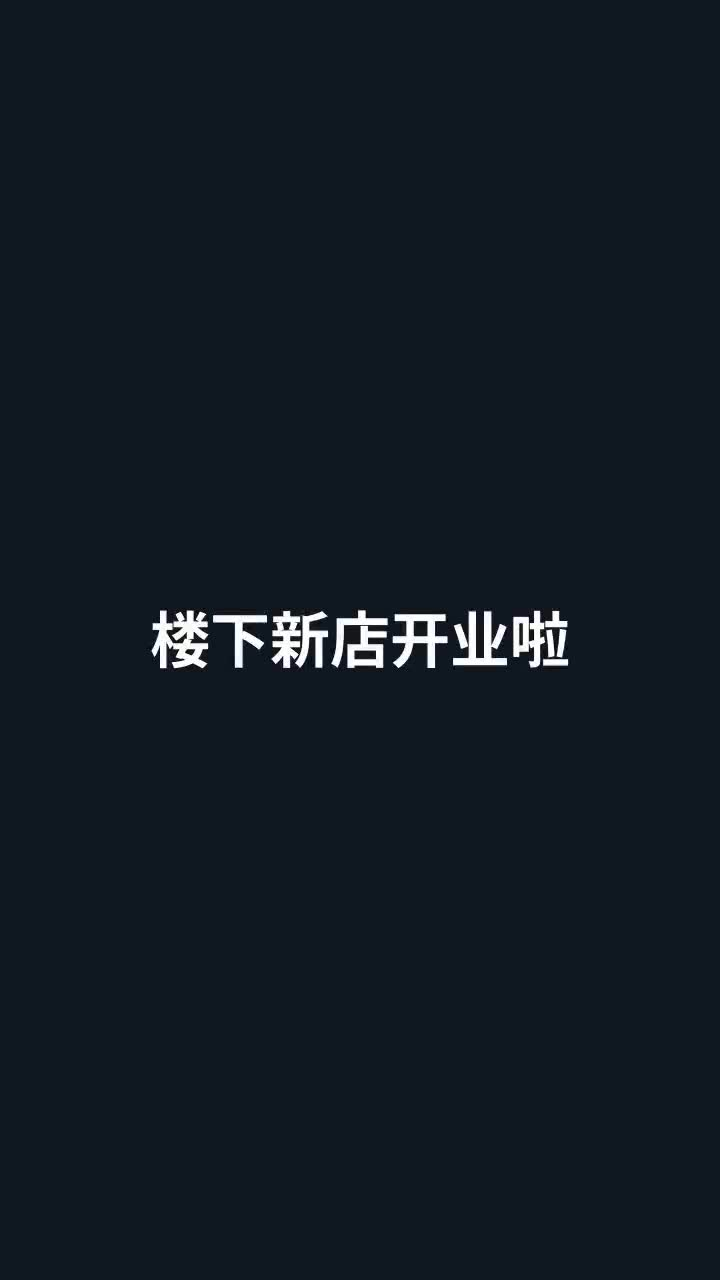
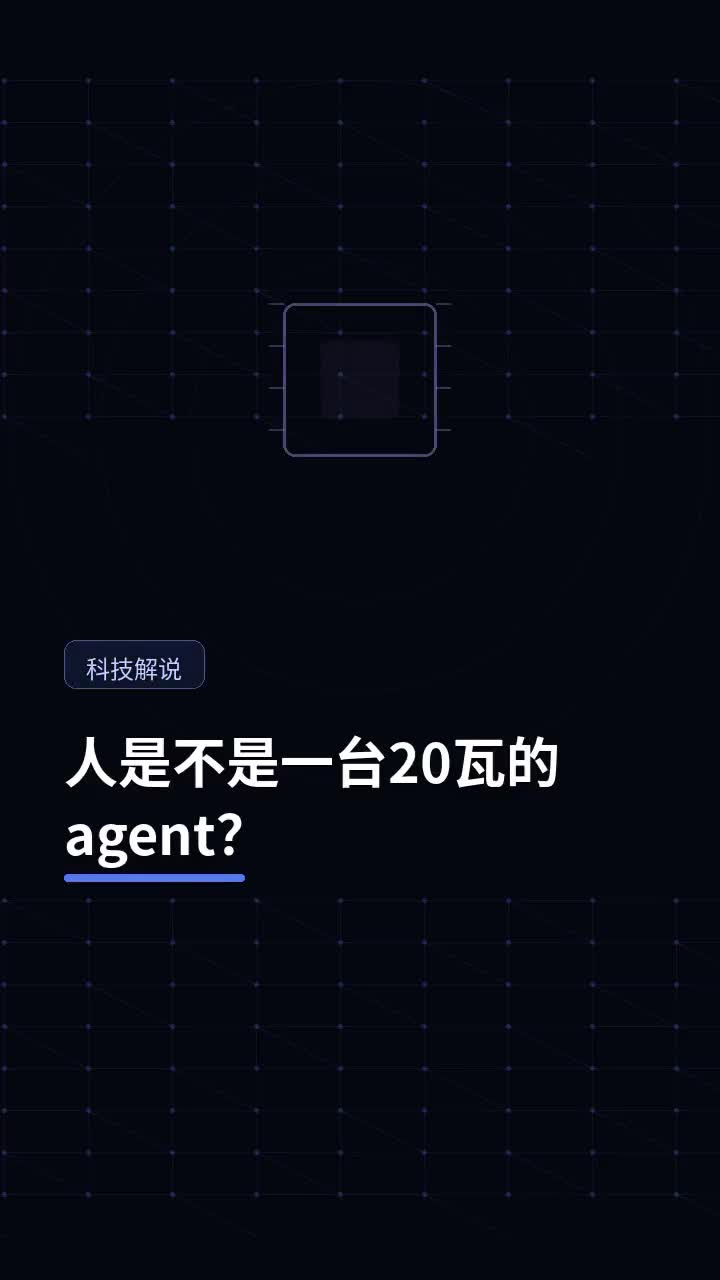
Add designed title card with background art
This is by an automated agent, not a human.

Title card: mesh and concentric background, kicker, fitted headline,
accent rule; hybrid wrapping keeps Latin words whole.

diff --git a/projects/motion-mvp/graph_scene.py b/projects/motion-mvp/graph_scene.py
@@ -74,25 +74,8 @@ def glass_panel(draw, box, alpha=22, brackets=True):
         corner_brackets(draw, (x0, y0, x1, y1), ACCENT2, alpha=170, size=22, width=2)
 
 
-def wrap_text(text, size, max_width, bold=False):
-    f = font(FONT_BOLD if bold else FONT_REG, size)
-    lines, current = [], ''
-    for char in text:
-        candidate = current + char
-        if f.getlength(candidate) > max_width and current:
-            lines.append(current)
-            current = char
-        else:
-            current = candidate
-    if current:
-        lines.append(current)
-    return lines
-
-
-
 
 def fit_font(text, max_w, max_h, start=28, pad=16, bold=True):
-    """Shrink until the text fits the box with a consistent padding."""
     size = start
     while size > 12:
         f = font(FONT_BOLD if bold else FONT_REG, size)
@@ -103,7 +86,6 @@ def fit_font(text, max_w, max_h, start=28, pad=16, bold=True):
 
 
 def label_box(draw, x, y, text, w, h, outline, fill=None, pad=16, start=30, text_color=(255, 255, 255)):
-    """Box with text fitted and optically centered; identical padding everywhere."""
     f, size = fit_font(text, w, h, start=start, pad=pad)
     if fill:
         draw.rounded_rectangle([x, y, x + w, y + h], radius=10, fill=fill,
@@ -114,6 +96,37 @@ def label_box(draw, x, y, text, w, h, outline, fill=None, pad=16, start=30, text
     asc, desc = f.getmetrics()
     th = asc + desc
     draw.text((x + (w - tw) / 2, y + (h - th) / 2 + 2), text, font=f, fill=text_color)
+
+
+def _tokens(text):
+    tokens, buf = [], ''
+    for ch in text:
+        if ch.isascii() and (ch.isalnum() or ch in "-'"):
+            buf += ch
+        else:
+            if buf:
+                tokens.append(buf)
+                buf = ''
+            tokens.append(ch)
+    if buf:
+        tokens.append(buf)
+    return tokens
+
+
+def wrap_text(text, size, max_width, bold=False):
+    """Wrap by CJK character but keep Latin words whole."""
+    f = font(FONT_BOLD if bold else FONT_REG, size)
+    lines, current = [], ''
+    for token in _tokens(text):
+        candidate = current + token
+        if f.getlength(candidate) > max_width and current:
+            lines.append(current)
+            current = token
+        else:
+            current = candidate
+    if current:
+        lines.append(current)
+    return lines
 
 
 def draw_brain(draw, cx, cy, scale, alpha):
@@ -511,3 +524,60 @@ def draw_flow_compact(draw, cx, cy, alpha, t):
                           fill=ACCENT + (int(200 * alpha),), width=3)
             dot_y = ay0 + 4 + (t * 50) % 18
             draw.ellipse([ax - 3, dot_y - 3, ax + 3, dot_y + 3], fill=ACCENT2 + (int(230 * alpha),))
+
+
+def render_title_card(out, title, kicker='概念解说', subtitle='', seconds=3.0, figure='chip'):
+    """Opening card: background art, kicker, fitted title and a rule."""
+    frames_dir = Path(out).with_suffix('')
+    frames_dir.mkdir(parents=True, exist_ok=True)
+    total = int(seconds * FPS)
+    for index in range(total):
+        t = index / FPS
+        appear = ease(t / 0.6)
+        draw_t = t
+        image = Image.new('RGB', (W, H), '#05070f')
+        draw = ImageDraw.Draw(image, 'RGBA')
+        draw.rectangle([0, 0, W, H], fill='#05070f')
+        mesh(draw, 80, 420)
+        mesh(draw, 900, 1200)
+        for radius in (170, 260, 350):
+            draw.ellipse([W / 2 - radius, 430 - radius, W / 2 + radius, 430 + radius],
+                         outline=(90, 130, 255, 14), width=1)
+        drawer = FIGURES.get(figure, draw_chip)
+        if figure in ('triangle', 'bars', 'split', 'tokens', 'gear', 'database'):
+            drawer(draw, W / 2, 380, 240, 0.55 * appear, draw_t)
+        elif figure == 'flow':
+            draw_flow_compact(draw, W / 2, 380, 0.5 * appear, draw_t)
+        else:
+            drawer(draw, W / 2, 380, 240, 0.55 * appear)
+        # kicker
+        kf = font(FONT_REG, 24)
+        kw = kf.getlength(kicker) + 44
+        draw.rounded_rectangle([MARGIN, 640, MARGIN + kw, 688], radius=12,
+                               fill=(90, 130, 255, int(34 * appear)),
+                               outline=(120, 160, 255, int(140 * appear)))
+        draw.text((MARGIN + 22, 650), kicker, font=kf, fill=(190, 205, 255, int(230 * appear)))
+        # title, fitted
+        lines = wrap_text(title, 54, W - MARGIN * 2, bold=True)[:3]
+        y = 720
+        for line in lines:
+            f = font(FONT_BOLD, 54)
+            draw.text((MARGIN, y + 2), line, font=f, fill=(0, 0, 0, 150))
+            draw.text((MARGIN, y), line, font=f, fill=(255, 255, 255, int(246 * appear)))
+            y += 72
+        # rule
+        draw.rounded_rectangle([MARGIN, y + 10, MARGIN + int(180 * appear), y + 17],
+                               radius=3, fill=(90, 130, 255, 235))
+        if subtitle:
+            sf = font(FONT_REG, 28)
+            for line_index, line in enumerate(wrap_text(subtitle, 28, W - MARGIN * 2)[:2]):
+                draw.text((MARGIN, y + 48 + line_index * 40), line, font=sf,
+                          fill=(200, 208, 225, int(210 * appear)))
+        image.save(frames_dir / f'{index:04d}.png')
+    subprocess.run(['ffmpeg', '-y', '-loglevel', 'error', '-framerate', str(FPS),
+                    '-i', str(frames_dir / '%04d.png'), '-c:v', 'libx264', '-preset',
+                    'veryfast', '-crf', '22', '-pix_fmt', 'yuv420p', str(out)], check=True)
+    for path in frames_dir.glob('*.png'):
+        path.unlink()
+    frames_dir.rmdir()
+    return out

diff --git a/projects/motion-mvp/pipeline.py b/projects/motion-mvp/pipeline.py
@@ -266,12 +266,21 @@ def build(brief, name='demo', count=5, theme='promo', style='photo'):
         clips.append(clip_path)
         audios.append(audio_path)
         print(f'scene {index}: {clip_dur:.1f}s {scene.get("text", "")[:30]}', flush=True)
-    title_seconds, cta_seconds = 2.6, 3.2
+    title_seconds, cta_seconds = 3.0, 3.2
     title = work / 'title.mp4'
     cta = work / 'cta.mp4'
-    title_lines = wrap(title_text, 7).split('\n')
-    card_clip(title, title_lines, title_seconds)
-    card_clip(cta, wrap(cta_text, 9).split('\n') + ['路过记得拐进来'], cta_seconds, bg='#1f2a44')
+    if style in ('insight', 'graphic'):
+        import graph_scene
+        graph_scene.render_title_card(str(title), title_text,
+                                      kicker='科技解说' if theme == 'tech' else '解说',
+                                      subtitle='', seconds=title_seconds,
+                                      figure='chip')
+        graph_scene.render_title_card(str(cta), cta_text, kicker='',
+                                      subtitle='', seconds=cta_seconds, figure='flow')
+    else:
+        title_lines = wrap(title_text, 7).split('\n')
+        card_clip(title, title_lines, title_seconds)
+        card_clip(cta, wrap(cta_text, 9).split('\n') + ['路过记得拐进来'], cta_seconds, bg='#1f2a44')
     clips = [title] + clips + [cta]
     with (work / 'audio.txt').open('w') as handle:
         for item in audios:
